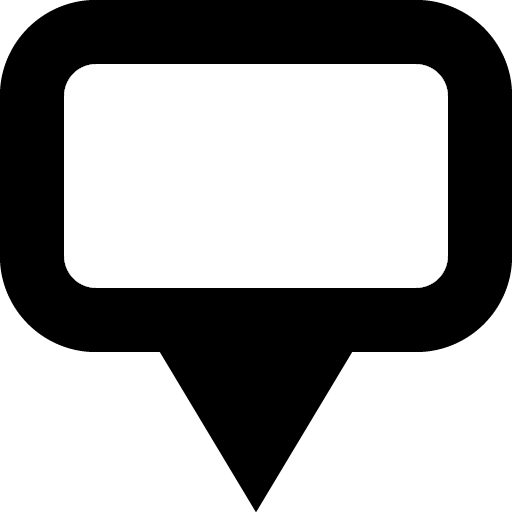
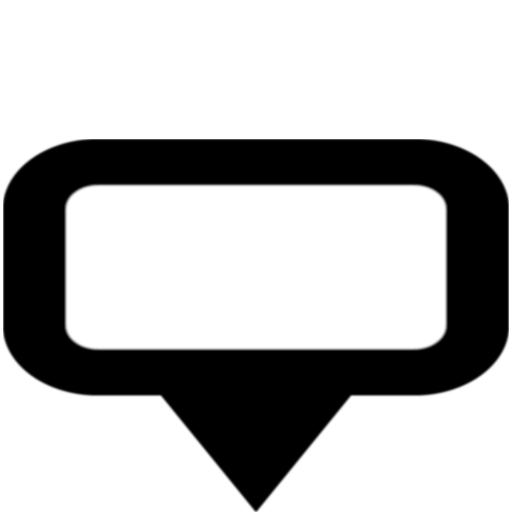
Changed marker, solved some bugs.

diff --git a/frontend/src/components/Tours/ListMap.js b/frontend/src/components/Tours/ListMap.js
@@ -43,7 +43,7 @@ const Markers = withRouter((props) => {
                             position={{lat: tour.route[0][0], lng: tour.route[0][1]}}
                             onClick={() => props.onMarkerClick(tour._id)}
                             label={{text: tour.cost + '€'}}
-                            icon={{url: marker, scaledSize: new google.maps.Size(47, 25)}}>
+                            icon={{url: marker, scaledSize: new google.maps.Size(47, 47)}}>
 
                         {props.openInfobox === tour._id &&
                         <InfoBox options={{closeBoxURL: ``, enableEventPropagation: true}}>

diff --git a/frontend/src/views/TourDetailView.js b/frontend/src/views/TourDetailView.js
@@ -5,6 +5,7 @@ import {TourDetailPage} from "../components/Tours/TourDetailPage";
 import UserService from "../services/UserService";
 import * as actions from "../state/actions/tourDetail"
 import connect from "react-redux/es/connect/connect";
+import Loading from "../components/Loading";
 
 
 class TourDetailPageView extends React.Component {

diff --git a/frontend/src/components/Tours/TourDetailPage.js b/frontend/src/components/Tours/TourDetailPage.js
@@ -35,6 +35,5 @@ export const TourDetailPage = props => {
 };
 
 TourDetailPage.propTypes = {
-    tourId: propTypes.string.isRequired,
     userId: propTypes.string
 };
